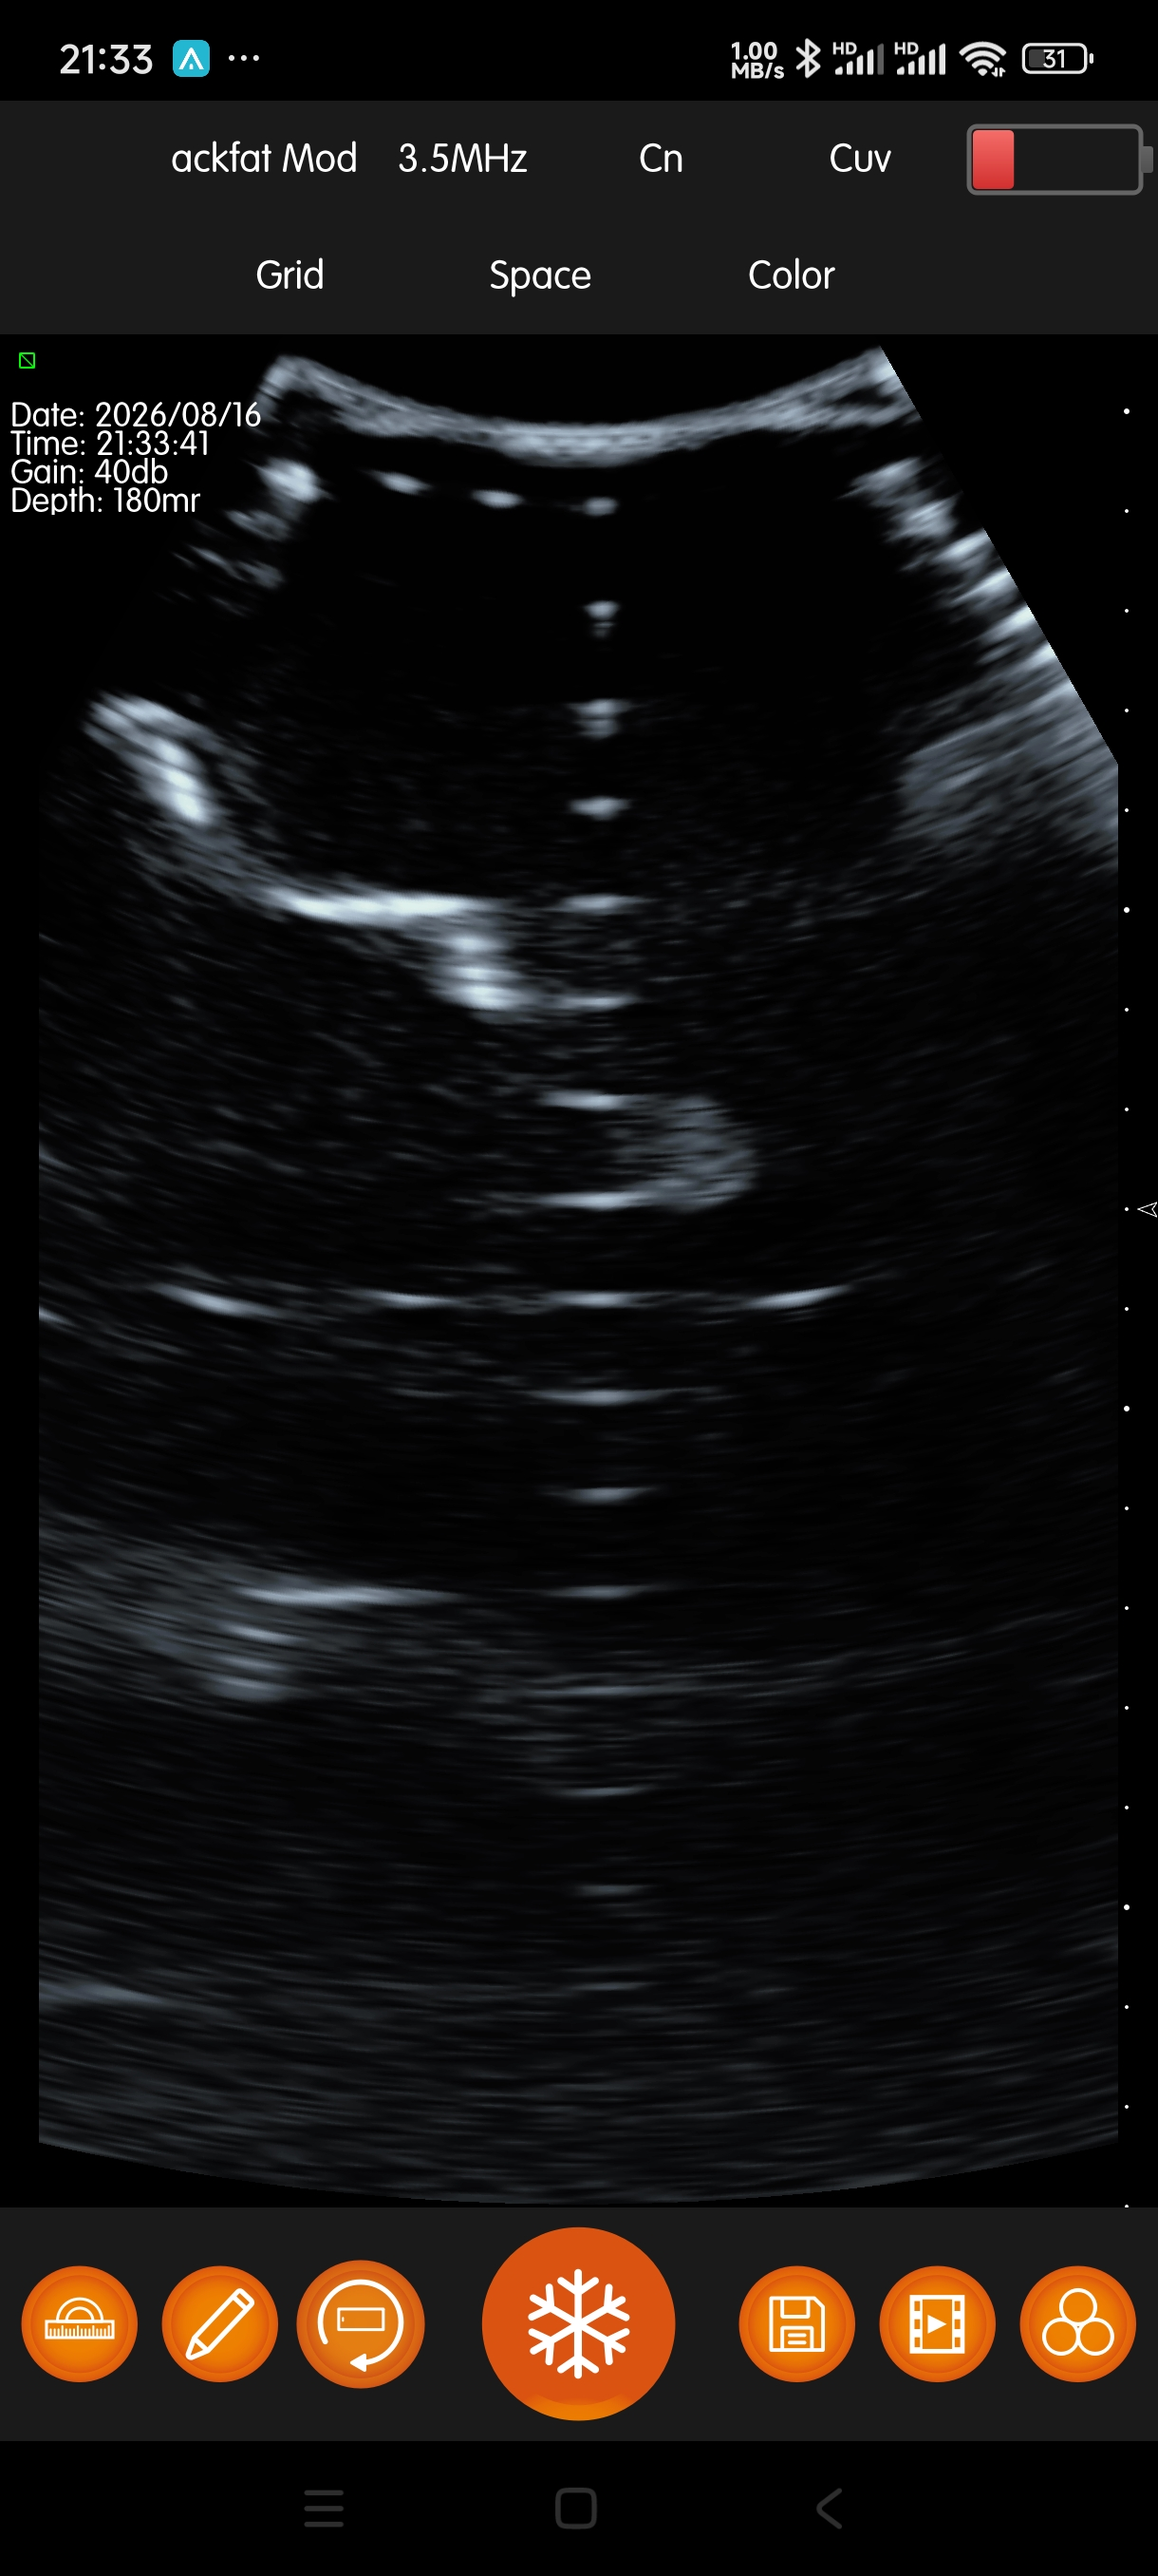
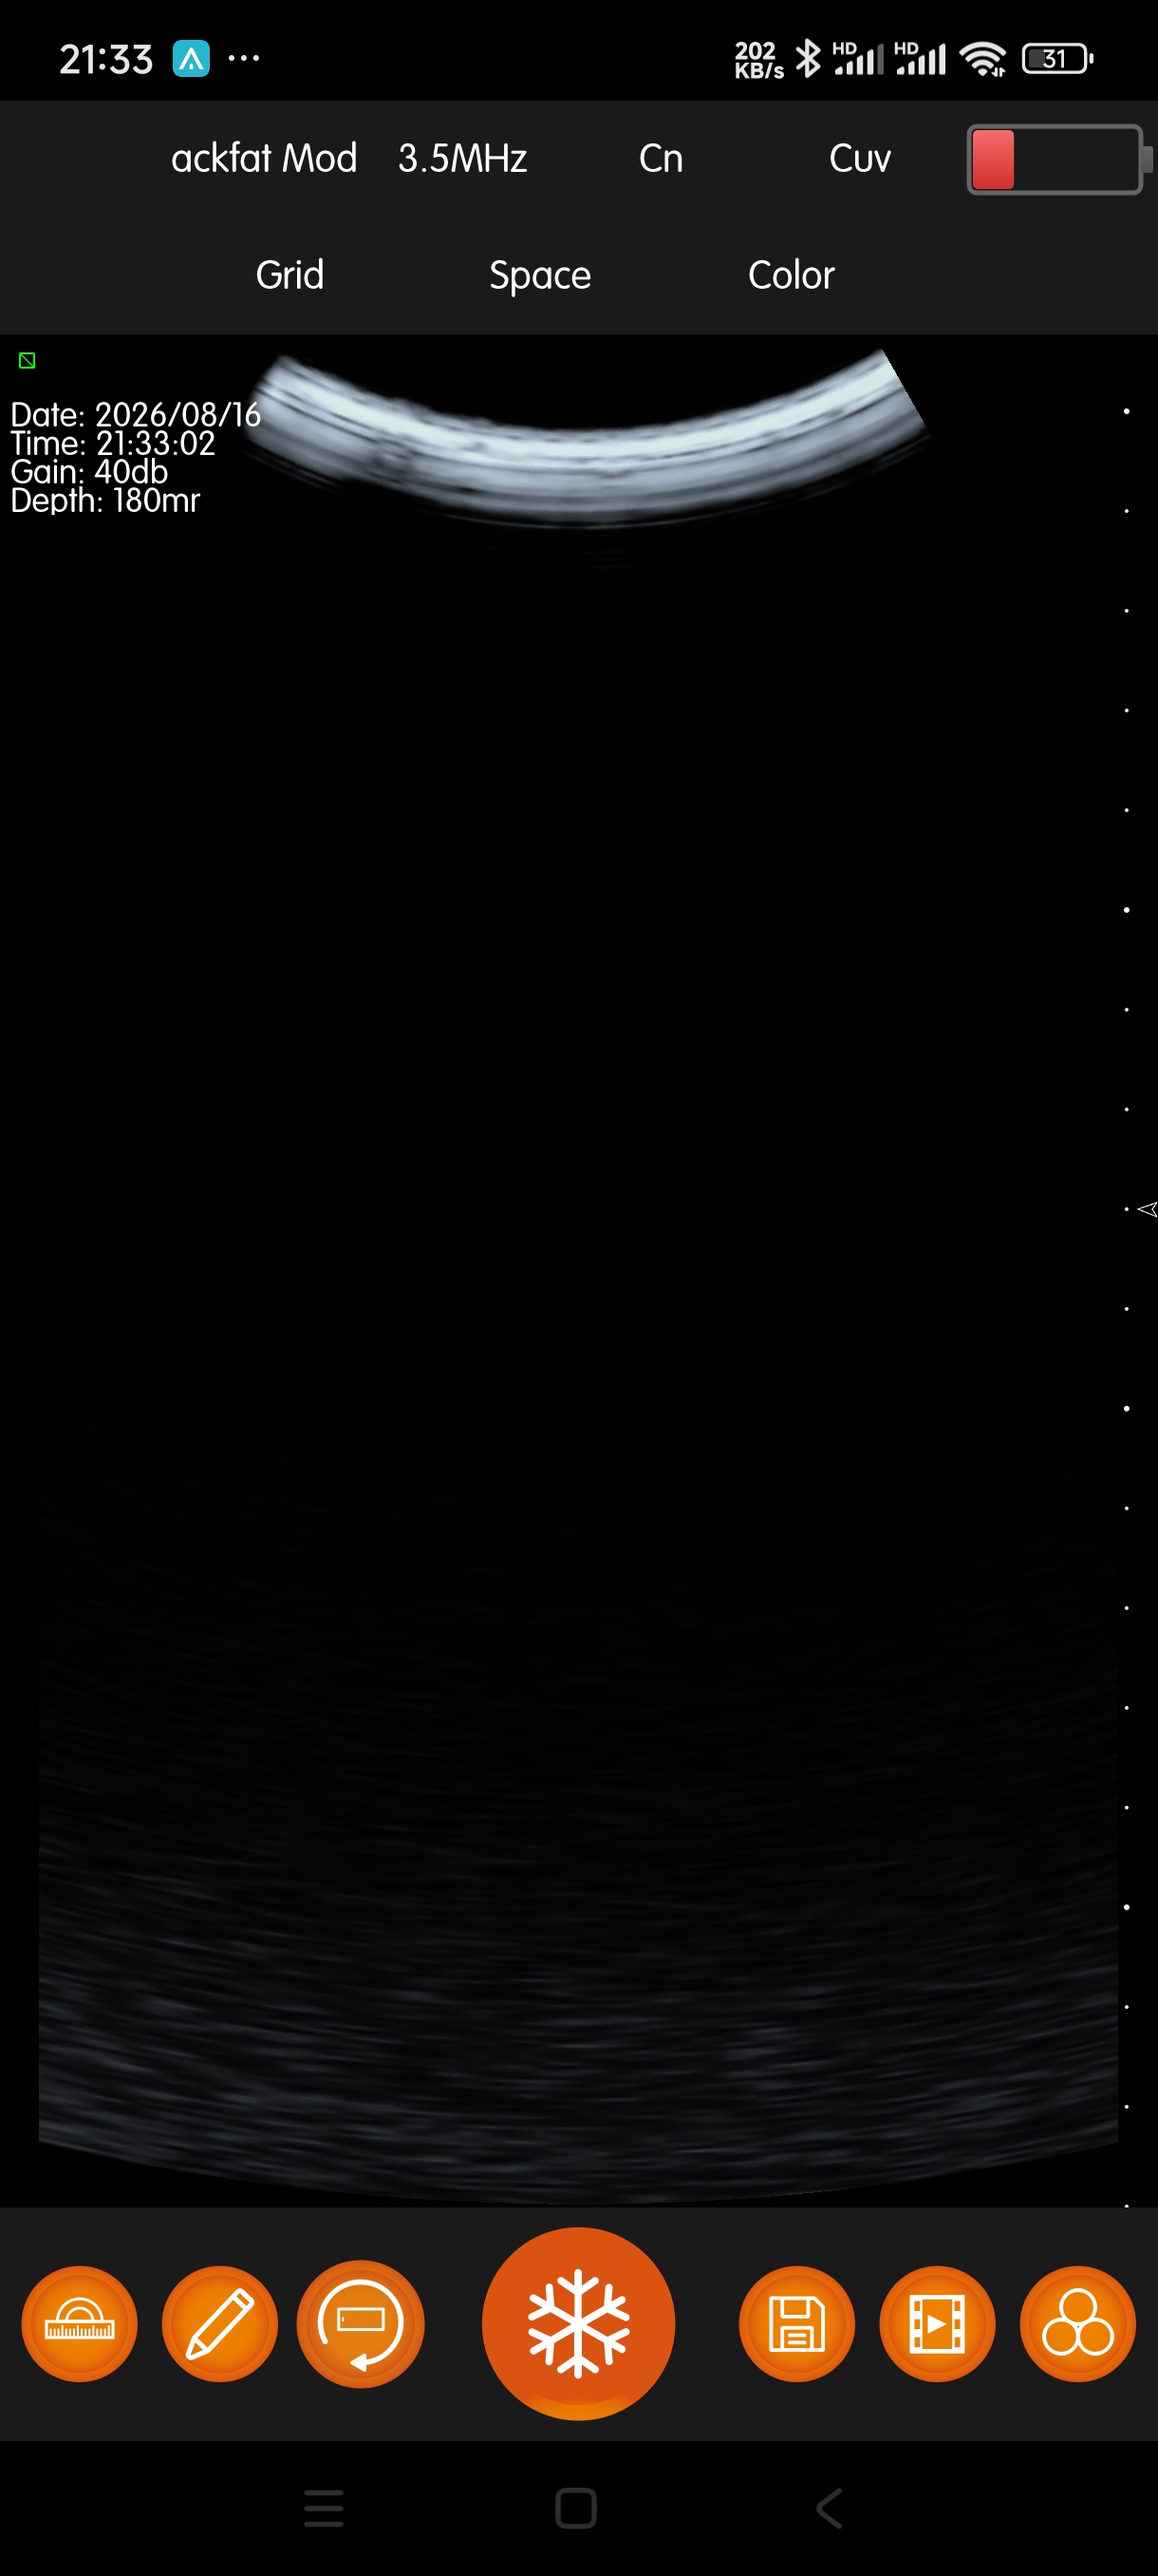
update the readme.md

diff --git a/README.md b/README.md
@@ -1,4 +1,21 @@
-# Ultrasound Imaging Platform Technical Solution Details – Full‑Chain Implementation from FPGA to WiFi Hotspot
+# Ultrasound Imaging Platform Technical Solution Details – Full‑Chain Implementation from FPGA to WiFi Hotspot(Update : 2026/08/22)
+
+> 
+
+
+B-mode ultrasound image, convex array as follows: B-mode ultrasound image:
+![11](https://github.com/VisSonixAP/Ultrasound-AFE-Dev-Kit/blob/main/ultrasound_img/conv_img.jpg)
+
+![11](https://github.com/VisSonixAP/Ultrasound-AFE-Dev-Kit/blob/main/ultrasound_img/conv_img2.jpg)
+
+B-mode ultrasound image, linear array as follows:
+![11](https://github.com/VisSonixAP/Ultrasound-AFE-Dev-Kit/blob/main/ultrasound_img/line_img.jpg)
+
+![11](https://github.com/VisSonixAP/Ultrasound-AFE-Dev-Kit/blob/main/ultrasound_img/line_img2.jpg)
+> 
+
+
+# Ultrasound Imaging Platform Technical Solution Details – Full‑Chain Implementation from FPGA to WiFi Hotspot(Update : 2026/07/28)
 
 > 
 
